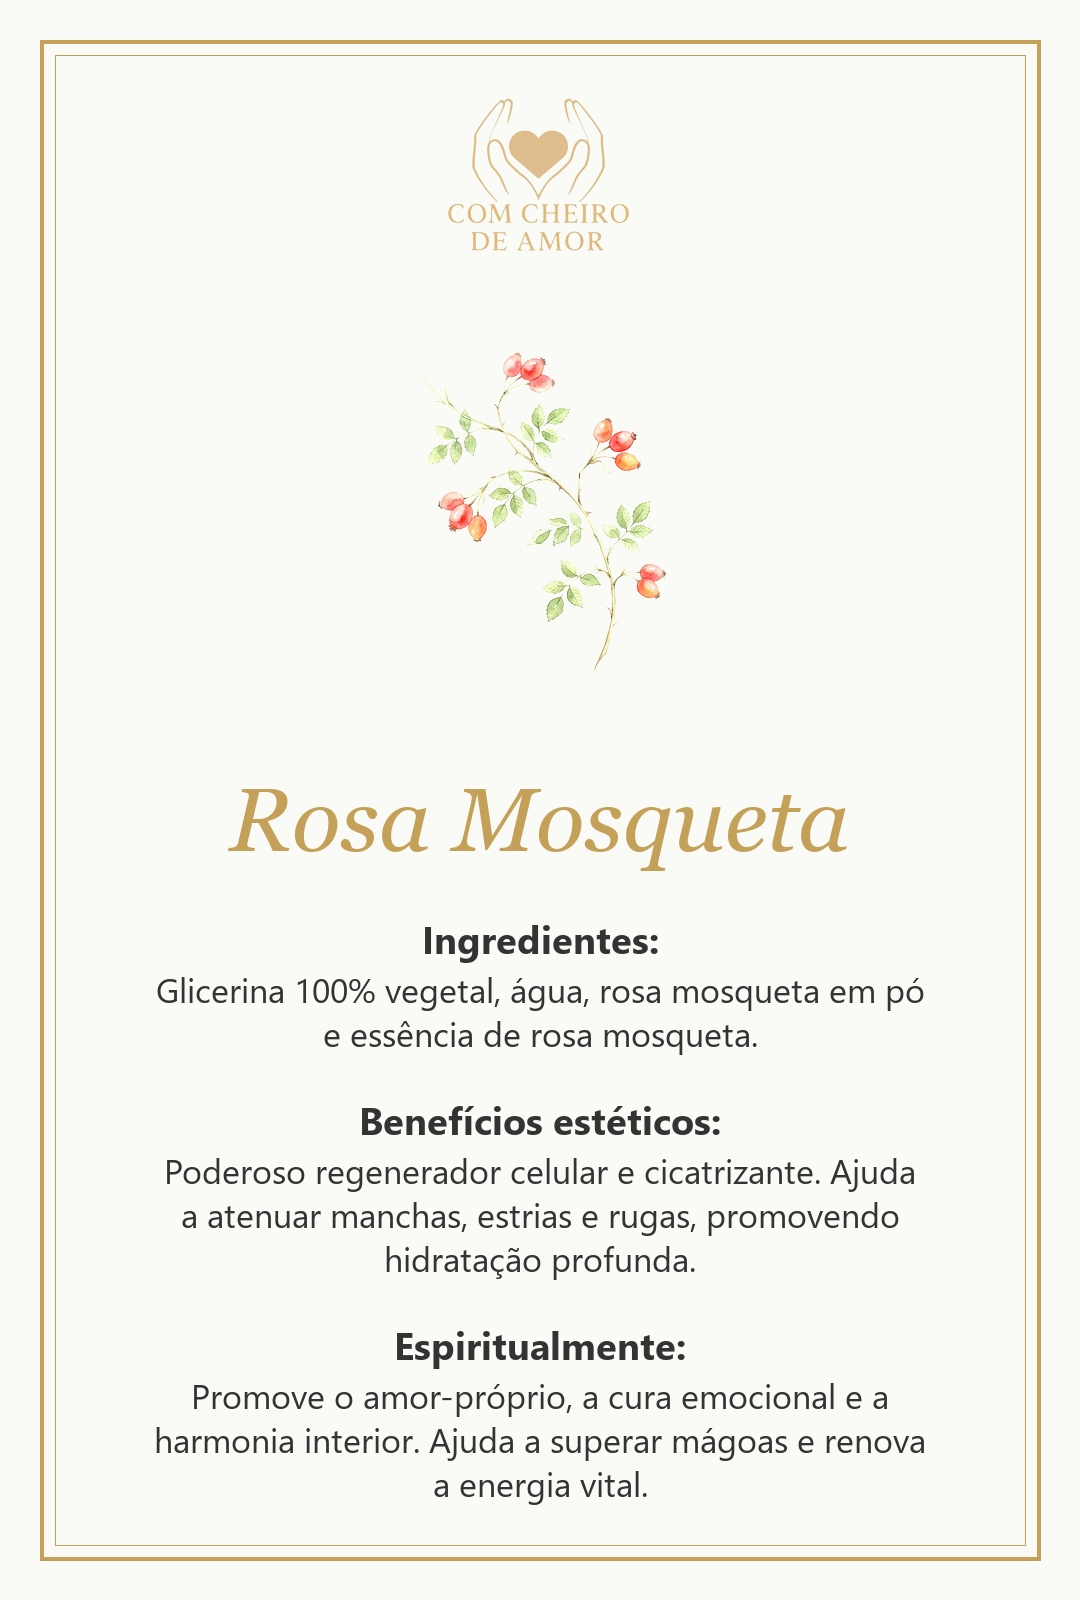
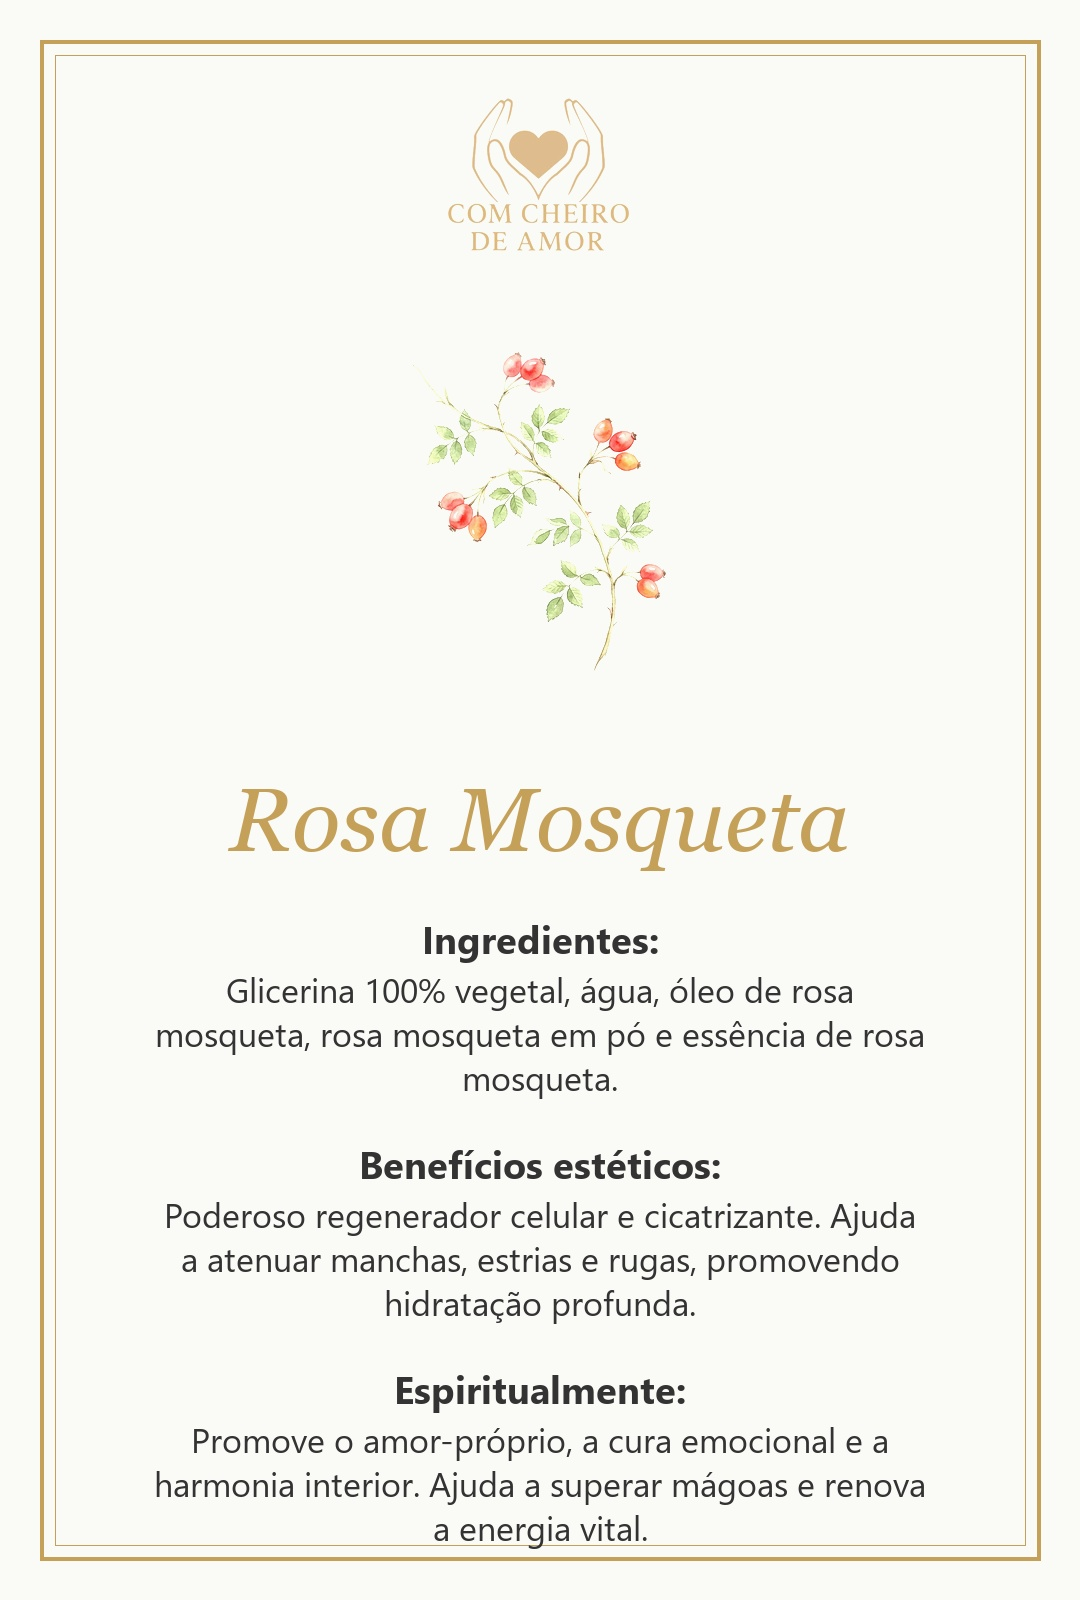
fix(soap): add oleo de rosa mosqueta to ingredients for Rosa Mosqueta soap

Changed region(s): [[0.1528, 0.5938, 0.8556, 0.9688]]

diff --git a/Proyecto 15 - Etiquetas de Jabones/generate_final.py b/Proyecto 15 - Etiquetas de Jabones/generate_final.py
@@ -19,7 +19,7 @@ data = [
     {"title": "Lavanda", "drawing": "drawing_lavanda*.png", "ingredientes": "Glicerina 100% vegetal, água, essência natural e lavanda.", "esteticos": "Anti-inflamatório, reduz acne, rosácea e eczemas. Ajuda no tratamento de peles oleosas.", "espiritual": "Calmante, ajuda na ansiedade e stress. Ajuda-nos a conectar com a nossa intuição e sabedoria."},
     {"title": "Aloe Vera", "drawing": "drawing_aloe_vera*.png", "ingredientes": "Glicerina 100% vegetal, àgua, extrato de aloe vera e essência de aloe vera.", "esteticos": "Ajuda na hidratação da pele e rugas. Suaviza a pele.", "espiritual": "Simboliza proteção, esperança, longevidade e sorte."},
     {"title": "Laranja", "drawing": "drawing_naranja*.png", "ingredientes": "Glicerina 100% vegetal, água, flor de laranjeira e essência de laranja.", "esteticos": "Excelente adstringente natural. Promove a renovação celular, melhora a elasticidade da pele e auxilia no controle da oleosidade.", "espiritual": "Atrai prosperidade, alegria e vitalidade. Ajuda a dissipar sentimentos negativos e traz energia revitalizante."},
-    {"title": "Rosa Mosqueta", "drawing": "drawing_rosa_mosqueta*.png", "ingredientes": "Glicerina 100% vegetal, água, rosa mosqueta em pó e essência de rosa mosqueta.", "esteticos": "Poderoso regenerador celular e cicatrizante. Ajuda a atenuar manchas, estrias e rugas, promovendo hidratação profunda.", "espiritual": "Promove o amor-próprio, a cura emocional e a harmonia interior. Ajuda a superar mágoas e renova a energia vital."}
+    {"title": "Rosa Mosqueta", "drawing": "drawing_rosa_mosqueta*.png", "ingredientes": "Glicerina 100% vegetal, água, óleo de rosa mosqueta, rosa mosqueta em pó e essência de rosa mosqueta.", "esteticos": "Poderoso regenerador celular e cicatrizante. Ajuda a atenuar manchas, estrias e rugas, promovendo hidratação profunda.", "espiritual": "Promove o amor-próprio, a cura emocional e a harmonia interior. Ajuda a superar mágoas e renova a energia vital."}
 ]
 
 logo_path = r"C:\Users\ANGEL RAFAEL\.gemini\antigravity\scratch\com-cheiro-de-amor-pamphlet-preview\assets\logo.jpg"